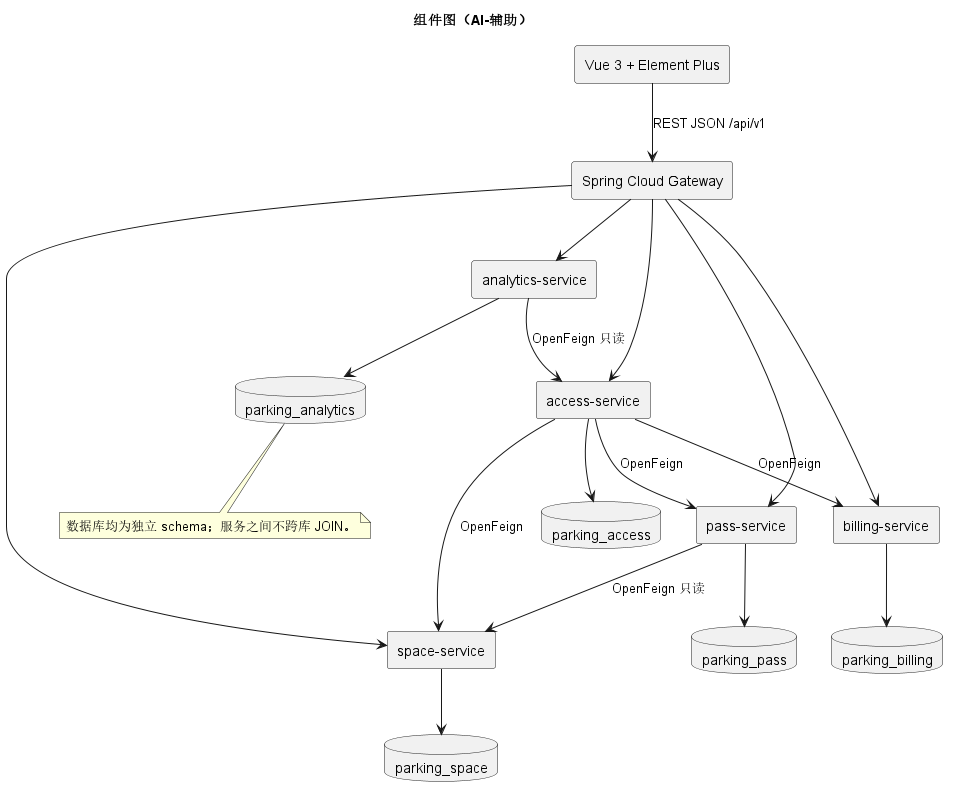
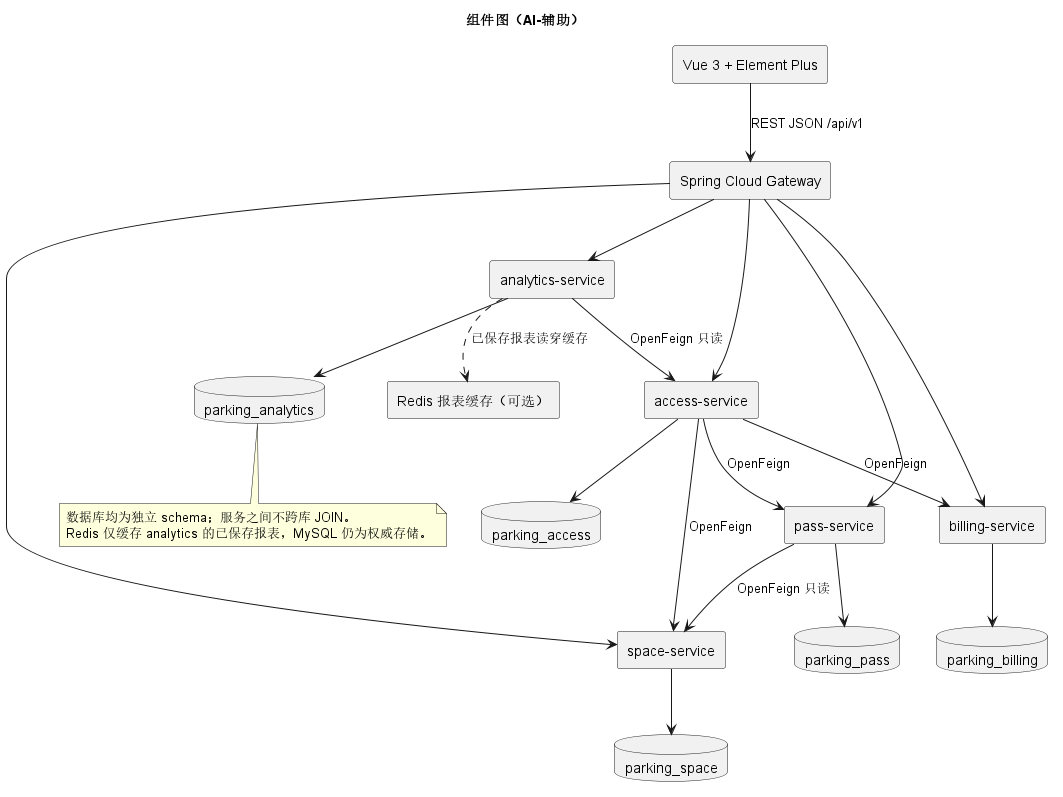
feat(analytics): cache saved traffic reports in optional Redis

diff --git a/analytics-service/src/main/java/cn/jsuhao/parking/analytics/SavedReportCache.java b/analytics-service/src/main/java/cn/jsuhao/parking/analytics/SavedReportCache.java
@@ -1,0 +1,48 @@
+package cn.jsuhao.parking.analytics;
+
+import com.fasterxml.jackson.core.JsonProcessingException;
+import com.fasterxml.jackson.databind.DeserializationFeature;
+import com.fasterxml.jackson.databind.ObjectMapper;
+import com.fasterxml.jackson.databind.SerializationFeature;
+import java.time.Duration;
+import org.slf4j.Logger;
+import org.slf4j.LoggerFactory;
+import org.springframework.beans.factory.annotation.Value;
+import org.springframework.data.redis.core.StringRedisTemplate;
+import org.springframework.stereotype.Component;
+
+@Component
+class SavedReportCache {
+    private static final Logger log = LoggerFactory.getLogger(SavedReportCache.class);
+    private static final String PREFIX = "parking:analytics:report:v1:";
+
+    private final StringRedisTemplate redis;
+    private final ObjectMapper json = new ObjectMapper().findAndRegisterModules()
+            .disable(SerializationFeature.WRITE_DATES_AS_TIMESTAMPS)
+            .disable(DeserializationFeature.ADJUST_DATES_TO_CONTEXT_TIME_ZONE);
+    private final Duration ttl;
+
+    SavedReportCache(StringRedisTemplate redis, @Value("${parking.analytics.redis.ttl}") Duration ttl) {
+        if (ttl.isZero() || ttl.isNegative()) throw new IllegalArgumentException("Redis cache TTL must be positive");
+        this.redis = redis;
+        this.ttl = ttl;
+    }
+
+    TrafficReport find(String id) {
+        try {
+            String value = redis.opsForValue().get(PREFIX + id);
+            return value == null ? null : json.readValue(value, TrafficReport.class);
+        } catch (RuntimeException | JsonProcessingException error) {
+            log.warn("Redis report cache read skipped: {}", error.toString());
+            return null;
+        }
+    }
+
+    void put(TrafficReport report) {
+        try {
+            redis.opsForValue().set(PREFIX + report.reportId(), json.writeValueAsString(report), ttl);
+        } catch (RuntimeException | JsonProcessingException error) {
+            log.warn("Redis report cache write skipped: {}", error.toString());
+        }
+    }
+}

diff --git a/analytics-service/src/test/java/cn/jsuhao/parking/analytics/SavedReportCacheTest.java b/analytics-service/src/test/java/cn/jsuhao/parking/analytics/SavedReportCacheTest.java
@@ -1,0 +1,42 @@
+package cn.jsuhao.parking.analytics;
+
+import static org.junit.jupiter.api.Assertions.assertEquals;
+import static org.junit.jupiter.api.Assertions.assertNull;
+import static org.mockito.ArgumentMatchers.eq;
+import static org.mockito.Mockito.mock;
+import static org.mockito.Mockito.verify;
+import static org.mockito.Mockito.when;
+
+import java.time.Duration;
+import java.time.OffsetDateTime;
+import java.util.List;
+import org.junit.jupiter.api.Test;
+import org.mockito.ArgumentCaptor;
+import org.springframework.data.redis.RedisConnectionFailureException;
+import org.springframework.data.redis.core.StringRedisTemplate;
+import org.springframework.data.redis.core.ValueOperations;
+
+class SavedReportCacheTest {
+    @Test
+    @SuppressWarnings("unchecked")
+    void preservesReportSnapshotAndTreatsRedisFailureAsCacheMiss() {
+        StringRedisTemplate redis = mock(StringRedisTemplate.class);
+        ValueOperations<String, String> values = mock(ValueOperations.class);
+        when(redis.opsForValue()).thenReturn(values);
+        SavedReportCache cache = new SavedReportCache(redis, Duration.ofMinutes(5));
+        OffsetDateTime start = OffsetDateTime.parse("2026-10-01T08:00:00+08:00");
+        TrafficBucket bucket = new TrafficBucket(start, 2);
+        TrafficReport report = new TrafficReport("report-1", start, start.plusHours(1), "HOUR",
+                List.of(bucket), bucket, 2);
+
+        cache.put(report);
+        ArgumentCaptor<String> payload = ArgumentCaptor.forClass(String.class);
+        String key = "parking:analytics:report:v1:report-1";
+        verify(values).set(eq(key), payload.capture(), eq(Duration.ofMinutes(5)));
+        when(values.get(key)).thenReturn(payload.getValue());
+        assertEquals(report, cache.find("report-1"));
+
+        when(values.get(key)).thenThrow(new RedisConnectionFailureException("offline"));
+        assertNull(cache.find("report-1"));
+    }
+}

diff --git a/analytics-service/src/test/java/cn/jsuhao/parking/analytics/TrafficServiceTest.java b/analytics-service/src/test/java/cn/jsuhao/parking/analytics/TrafficServiceTest.java
@@ -4,6 +4,8 @@ import static org.junit.jupiter.api.Assertions.assertEquals;
 import static org.junit.jupiter.api.Assertions.assertNull;
 import static org.junit.jupiter.api.Assertions.assertThrows;
 import static org.mockito.ArgumentMatchers.anyString;
+import static org.mockito.ArgumentMatchers.argThat;
+import static org.mockito.Mockito.verify;
 import static org.mockito.Mockito.when;
 
 import java.time.OffsetDateTime;
@@ -25,6 +27,7 @@ class TrafficServiceTest {
     @Autowired TrafficService service;
     @Autowired JdbcTemplate jdbc;
     @MockitoBean AccessTrafficClient access;
+    @MockitoBean SavedReportCache cache;
 
     @Test
     void reportCountsEntriesAndSavedSnapshotMatches() {
@@ -48,5 +51,15 @@ class TrafficServiceTest {
         assertEquals(2, report.peakBucket().count());
         assertEquals(2, report.buckets().size());
         assertEquals(report.buckets(), service.saved(report.reportId()).buckets());
+        verify(cache).put(argThat(saved -> report.reportId().equals(saved.reportId())));
+    }
+
+    @Test
+    void savedReportCacheHitDoesNotRequireMysqlRow() {
+        var from = OffsetDateTime.parse("2026-10-01T08:00:00+08:00");
+        var cached = new TrafficReport("cached-only", from, from.plusHours(1), "HOUR",
+                List.of(new TrafficBucket(from, 2)), new TrafficBucket(from, 2), 2);
+        when(cache.find("cached-only")).thenReturn(cached);
+        assertEquals(cached, service.saved("cached-only"));
     }
 }

diff --git a/analytics-service/src/main/java/cn/jsuhao/parking/analytics/TrafficController.java b/analytics-service/src/main/java/cn/jsuhao/parking/analytics/TrafficController.java
@@ -69,10 +69,12 @@ class TrafficService {
     private static final ZoneId SHANGHAI = ZoneId.of("Asia/Shanghai");
     private final AccessTrafficClient access;
     private final JdbcTemplate jdbc;
+    private final SavedReportCache cache;
 
-    TrafficService(AccessTrafficClient access, JdbcTemplate jdbc) {
+    TrafficService(AccessTrafficClient access, JdbcTemplate jdbc, SavedReportCache cache) {
         this.access = access;
         this.jdbc = jdbc;
+        this.cache = cache;
     }
 
     @Transactional
@@ -133,6 +135,8 @@ class TrafficService {
     }
 
     TrafficReport saved(String id) {
+        TrafficReport cached = cache.find(id);
+        if (cached != null) return cached;
         List<TrafficReport> reports = jdbc.query("SELECT * FROM traffic_report WHERE id=?",
                 (rs, row) -> {
                     OffsetDateTime from = rs.getObject("range_start", LocalDateTime.class)
@@ -153,7 +157,9 @@ class TrafficService {
                 }, id);
         if (reports.isEmpty())
             throw new TrafficFailure("NOT_FOUND", HttpStatus.NOT_FOUND, "报表不存在");
-        return reports.getFirst();
+        TrafficReport report = reports.getFirst();
+        cache.put(report);
+        return report;
     }
 
     private static LocalDateTime utc(OffsetDateTime value) {

diff --git a/docs/report-outline.md b/docs/report-outline.md
@@ -16,7 +16,7 @@
 | 模板要求 | 现状 | 证据位置 |
 |---|---|---|
 | UML 图 ≥12 幅 | **18 份源文件、22 张 PNG**（15 号源文件按五服务分别渲染） | `models/*.puml`、`models/rendered/` |
-| 测试用例 ≥10 条 | **16 条自动测试** + 6 组真实 MySQL 并发/故障注入 | `*/src/test/`、`docs/mysql-fault-tests.md` |
+| 测试用例 ≥10 条 | **18 条自动测试** + 6 组真实 MySQL 并发/故障注入 | `*/src/test/`、`docs/mysql-fault-tests.md` |
 | 界面截图 ≥8 张（含标题栏） | ❌ **待本人采集** | agent 的 QA 实拍不能替代 |
 | 8～10 分钟带字幕录屏（含跨服务） | ❌ **待本人录制** | — |
 | 建模工程文件可现场打开 | ✓ PlantUML 源码即工程文件 | `models/` |
@@ -38,7 +38,7 @@
 | 1.4 核心用例规约 | ✓ | **表1-3** 按模板格式，选 UC-02 入场 / UC-05 预约 / UC-03+04 出场结算。现有素材：`docs/use-cases.md`。**步骤编号必须与第二章 SSD、第四章设计顺序图一一对应** |
 | 1.5 非功能需求 | ✎ | 模板指定四方面：界面友好、健壮、可扩展（微服务视角）、可维护。要写**可检验指标**，且第六章 6.4 需逐条判定达标/未达标，两处必须能对上 |
 | 1.6 开发过程与迭代计划 | ✎ | 需新建**迭代计划表**（迭代｜时间｜目标｜产出物），把 6 周映射为「细化—构建迭代1—构建迭代2—移交」。真实时间线可从 `git log --date=short` 取：9/25 骨架 → 9/30 业务实现+模型+前端 → 10/07 加固 |
-| 1.7 运行环境 | ✓ | 硬软件环境表。现成数据：Java 21（Amazon Corretto）、Spring Boot 4.0.6、Spring Cloud 2025.1.1、Spring Cloud Alibaba 2025.1.0.0、MySQL 8.4、Nacos 3.1.1、Vue 3、Vite 6、Element Plus 2、PlantUML 1.2024.3。见 `README.md` §技术版本 |
+| 1.7 运行环境 | ✓ | 硬软件环境表。现成数据：Java 21（Amazon Corretto）、Spring Boot 4.0.6、Spring Cloud 2025.1.1、Spring Cloud Alibaba 2025.1.0.0、MySQL 8.4、Nacos 3.1.1、Redis 3.2.100（仅报表缓存）、Vue 3、Vite 6、Element Plus 2、PlantUML 1.2024.3。见 `README.md` §技术版本 |
 
 ### 第二章　分析建模
 
@@ -56,8 +56,8 @@
 | 3.2 逻辑视图：微服务划分 | ✎ | 需新建**表3-1**（服务｜职责｜独立 schema｜端口）。现成数据：`README.md` §模块与所有权、`AGENTS.md` §4 |
 | 3.3 开发视图：工程结构与接口 | ✓ | 多模块工程结构树 + **表3-2 服务间接口清单**。接口清单现成：`docs/api-contract.md`（含 DTO、调用方、同步/异步）。需补 DTO 与实体隔离原则的说明段 |
 | 3.4 进程视图：服务交互 | ✓ | **图3-2** = `models/17-process-sequence.puml`，以服务为生命线，展示出场、出账失败后复用意图、支付及释放重试。`06/08/10` 是第 4 章的设计级顺序图。正文仍需说明幂等键+本地事务+补偿/重试的一致性策略 |
-| 3.5 物理视图：部署图 | ✓ | **图3-3** = `models/13-deployment.puml`。图中本机六个 Java 进程、MySQL 五库、Nacos 注册发现与可选配置中心均有实测；Compose 和 Sentinel 尚未部署。模板要求与实际启动方式一致，正文需说明固定地址模式与 Nacos 模式 |
-| 3.6 组件图 | ✓ | **图3-4** = `models/12-components.puml`，以提供/依赖接口表达服务组装 |
+| 3.5 物理视图：部署图 | ✓ | **图3-3** = `models/13-deployment.puml`。图中本机六个 Java 进程、MySQL 五库、Nacos 注册发现与可选配置中心及 Redis 报表缓存均有各自实测；Compose 和 Sentinel 尚未部署。模板要求与实际启动方式一致，正文需说明固定地址模式与 Nacos 模式 |
+| 3.6 组件图 | ✓ | **图3-4** = `models/12-components.puml`，以提供/依赖接口表达服务组装；Redis 只连接 analytics 的已保存报表查询 |
 | 3.7 数据库设计 | ✓ | **图3-5 起** = `models/16-service-er.puml`。需补关键表结构表，以及**禁止跨库 JOIN 下的数据冗余设计说明**（如 access 冗余车牌、billing 快照权益）及其理由 |
 
 ### 第四章　详细设计
@@ -86,7 +86,7 @@
 | 节 | 状态 | 要点与证据 |
 |---|---|---|
 | 6.1 测试方案与环境 | ✓ | 功能+边界+服务间联调，说明模拟数据规模。素材：`docs/code-audit.md`、`docs/mysql-fault-tests.md` |
-| 6.2 测试用例表 | ✓ | **表6-1**，≥10 条。已有 16 条自动测试（H2）+ 真实 MySQL 并发与停机注入。模板**强制要求含跨服务场景与异常用例**——「被调服务停止时调用方容错」已在 `mysql-fault-tests.md` 有真实证据 |
+| 6.2 测试用例表 | ✓ | **表6-1**，≥10 条。已有 18 条自动测试（H2 与 Redis 缓存单测）+ 真实 MySQL 并发与停机注入；Redis 报表缓存另有本机真实 Redis/故障注入记录，见 `docs/agent-handoff.md`。模板**强制要求含跨服务场景与异常用例**——「被调服务停止时调用方容错」已在 `mysql-fault-tests.md` 有真实证据 |
 | 6.3 缺陷记录与修复闭环 | ✓ **亮点** | 模板要求「发现｜严重度｜修复情况」。本项目有**三个真实缺陷**可写：① billing 并发支付 7/8 返回 500（REPEATABLE READ 旧快照，`FOR UPDATE` 修复，H2 测不出）；② access 故障时状态语义错误（补 `@Transactional` 原子转 `EXIT_PENDING_PAYMENT`）；③ 前端残留 `reservationId`。**这一节写实了很有分量** |
 | 6.4 测试结论 | ✎ | 通过率 + **对照 1.5 非功能需求逐条判定「达标/未达标」**（须与 1.5 呼应）。注意如实写明未覆盖：跨机多实例、网络分区、真实支付网关 |
 

diff --git a/docs/agent-handoff.md b/docs/agent-handoff.md
@@ -1,8 +1,15 @@
-# Agent 交接记录（2026-10-06，当前可接手）
+# Agent 交接记录（2026-10-08，当前可接手）
 
 > 本文件用于中途接手。先读根目录 `AGENTS.md`、`docs/decisions.md`、`docs/api-contract.md` 和两份课程原件。业务语义与接口由这些文件约束；本记录只说明当前工作状态。请勿把未验证事项写成已完成。
 
-## 2026-10-07：UML 规范修正与进程视图（最新）
+## 2026-10-08：Redis 已保存报表缓存（最新）
+
+- **范围与边界**：UC-10 的 `analytics-service` 增加 `SavedReportCache`，仅对 `GET /api/v1/analytics/traffic-reports/{id}` 做 Redis 读穿缓存；`traffic-preview` 不缓存。`traffic_report` / `traffic_bucket` 的 MySQL 仍为权威存储，缓存写入发生在成功读库后；Redis 出错只记日志并回源，不改变 HTTP 契约、状态或表。键前缀 `parking:analytics:report:v1:`、TTL 默认 1 小时，地址/超时/密码均从环境变量配置，仓库不含真实密码。新增 `spring-boot-starter-data-redis` 提供 Lettuce 与 `StringRedisTemplate`；新增 BOM 管理的 `jackson-datatype-jsr310` 保证 `OffsetDateTime` JSON 往返保持偏移量。模型同步到图 12、13、15（analytics 那张）。
+- **真实 Redis 与 MySQL 证据**：本机 Redis `127.0.0.1:6379`、版本 3.2.100，使用环境变量密码认证后 `PING=PONG`。隔离端口 19085 的新版 analytics 查询已有报表 `f3a483da-1e1c-471e-84b1-236292c0d099` 两次，均返回 `OK`、`totalEntries=10`；Redis `EXISTS parking:analytics:report:v1:<id>` 返回 1，`TTL` 返回 3582 秒。隔离端口 19086 指向不可用 Redis 端口 6399，`/actuator/health=UP`，同报表仍返回 `OK`/10，日志有读写缓存失败并回源的记录。隔离端口 19087 将 MySQL 指向不可用 3307 且关闭 SQL 初始化，已缓存报表仍返回 `OK`/10；未缓存 ID 返回 HTTP 503、`DEPENDENCY_UNAVAILABLE`，证明没有假成功。三只临时 Java 进程测试后已停止；原始日志在忽略目录 `target/local-runtime/analytics-redis*.log`、`analytics-mysql-down-cache-hit.*.log`。
+- **测试与运行**：`./mvnw.cmd -pl analytics-service -am test` 为 3 条、0 失败；`./mvnw.cmd test` 全模块 18 条、0 失败，输出 `target/local-runtime/redis-analytics-tests.log` 与 `redis-full-mvn-test.log`。`SavedReportCacheTest` 覆盖带时区的 JSON 往返和 Redis 故障视为未命中；`TrafficServiceTest` 覆盖命中缓存后无需 MySQL 行。启动 analytics 前设置 `REDIS_PASSWORD`，必要时设置 `REDIS_HOST`、`REDIS_PORT`、`ANALYTICS_REDIS_TTL`，其余默认见 application.yml。本轮未推送远端。
+- **给 Compose agent**：B1 仍未在本仓库验收。若在虚拟机编排 Redis，应把 analytics 的 `REDIS_HOST` 指向 Compose 服务名，并从未提交的 `.env` 注入 `REDIS_PASSWORD`；不要把本机 `127.0.0.1` 当成容器内 Redis 地址。此处仅是对接说明，不能据此宣称 Compose 已通过。
+
+## 2026-10-07：UML 规范修正与进程视图
 
 - **A1/A2/A3**：`models/15-design-classes.puml` 按各服务 Java 源码补真实字段类型、方法参数/返回类型和可见性（包内访问用 `~`），引用关系标多重性；`ParkingPricing.BenefitPolicy` 标为私有嵌套接口，真实 `NONE` 匿名类用 `..|>` 实现关系表示，两个 lambda 只在 note 中说明，没有虚构具名策略类；补 `analytics-service` 的 Controller、Service、Feign 客户端、records 和异常类，注明只读调用 access、自有 JDBC 只写 analytics 库。覆盖 UC-03/04/10 等；没有改代码、接口、状态、金额单位或数据库表。A1/A2/A3 分别提交 `99421df`、`d8647bf`、`d4db3d0`，最终匿名实现连线另见本轮渲染同步提交。
 - **A4**：`models/17-process-sequence.puml` 新增报告图 3-2，命线为客户端、网关及四个参与出场的业务服务；依次表现权益核验、充电费用冻结、`exit_intent` 与 `EXIT_PENDING_PAYMENT` 持久化、出账、支付、`PAID_PENDING_RELEASE`、释放与 `CLOSED`。billing 停机分支返回 503 并保留原意图，同键重试读取旧快照；释放失败分支跳过已付账单的再次支付。与代码 `AccessService.requestExit/completeExit` 和 `AccessRepository.reserveExit` 核对；未画 Sentinel 分支，因为 B2 已回退。`docs/report-outline.md` 的图号与缺口清单已更新，提交 `9cc6d26`。

diff --git a/README.md b/README.md
@@ -24,7 +24,7 @@
 
 ## 技术版本
 
-Java 21、Spring Boot 4.0.6、Spring Cloud 2025.1.1、Spring Cloud Alibaba 2025.1.0.0、MySQL 8.x、Vue 3、Vite 6、Element Plus 2。Maven 版本由项目包装器确定；具体依赖以根 pom.xml 为准。版本组合参考 [Spring Cloud Alibaba 官方对应表](https://sca.aliyun.com/en/docs/2025.x/overview/version-explain/)；本机已用 Nacos 3.1.1 做服务发现联调，证据和边界见 [交接记录](docs/agent-handoff.md)。
+Java 21、Spring Boot 4.0.6、Spring Cloud 2025.1.1、Spring Cloud Alibaba 2025.1.0.0、MySQL 8.x、Vue 3、Vite 6、Element Plus 2；本机 Redis 3.2.100 仅用于已保存报表缓存。Maven 版本由项目包装器确定；具体依赖以根 pom.xml 为准。版本组合参考 [Spring Cloud Alibaba 官方对应表](https://sca.aliyun.com/en/docs/2025.x/overview/version-explain/)；本机已用 Nacos 3.1.1 做服务发现联调，证据和边界见 [交接记录](docs/agent-handoff.md)。
 
 ## 本地 MySQL 启动
 
@@ -44,13 +44,19 @@ Java 21、Spring Boot 4.0.6、Spring Cloud 2025.1.1、Spring Cloud Alibaba 2025.
 
 在项目根目录运行 `./scripts/verify-nacos-pricing-refresh.ps1` 可复核费率热更新；脚本要求 Nacos 中已经发布 v1 演示基线，测试结束会恢复原配置。它只创建新的模拟账单，不修改旧账单。
 
+## Redis 报表缓存（UC-10）
+
+`analytics-service` 对 `GET /api/v1/analytics/traffic-reports/{id}` 使用 Redis 读穿缓存，默认地址 `127.0.0.1:6379`，键前缀 `parking:analytics:report:v1:`，默认 TTL 为 1 小时。首次查看从 `parking_analytics` 读取并写入缓存；后续命中返回同一份不可变报表。实时 `traffic-preview` 不缓存。Redis 不可用时会回源 MySQL；若两者均不可用，仍按既有契约返回 `503 DEPENDENCY_UNAVAILABLE`。Redis 不参与车位、账单、支付或出场状态判断。
+
+启动 analytics 前在本机环境变量中设置 `REDIS_PASSWORD`，不要将真实密码写入仓库。可按需设置 `REDIS_HOST`、`REDIS_PORT`、`REDIS_CONNECT_TIMEOUT`、`REDIS_TIMEOUT` 和 `ANALYTICS_REDIS_TTL`；默认值见 [analytics 配置](analytics-service/src/main/resources/application.yml)。Redis 是可选缓存，其健康项不决定服务整体健康状态，故障会在日志记录。`analytics-service` 新增 BOM 管理的 Redis starter 与 Jackson Java Time 模块：前者提供连接与模板，后者保持报表 `OffsetDateTime` 的时区语义。
+
 本机没有 Docker/WSL，未验证 Compose 部署；Sentinel 曾在真实 MySQL 并发预约回归中引发 Feign 解码错误，已回退，当前不宣称启用熔断。
 
 ## 验证与演示
 
 - `.\mvnw.cmd clean package` 运行所有现有测试；测试使用 H2 的 MySQL 兼容模式检查服务各自的数据约束和主要分支，不替代 MySQL 联调。
 - `npm run build` 检查前端。
-- 16 条现有后端测试均通过；真实服务已启动时，可用 PowerShell 7 执行 `./scripts/smoke-gateway.ps1` 检查充电→冻结费用→出账→支付→释放→发票。脚本保留演示记录；网关地址可用 `-GatewayUrl` 覆盖。
+- 18 条后端测试均通过（原有 16 条 + Redis 缓存 2 条）；真实服务已启动时，可用 PowerShell 7 执行 `./scripts/smoke-gateway.ps1` 检查充电→冻结费用→出账→支付→释放→发票。脚本保留演示记录；网关地址可用 `-GatewayUrl` 覆盖。
 - 已验证的真实 MySQL 网关链路：普通停车 08:00–10:00 为 1000 分；预约九折减预付 500 分后应付 400 分；月卡停车费八折后余额自动扣 800 分；2 kWh 充电费 300 分并入账单；异常费用及日报表可复核。详见 [联调记录](docs/code-audit.md)。
 - 真实 MySQL 并发与断线恢复：`scripts/verify-mysql-concurrency.ps1` 覆盖并发占位、预约和支付；billing/space 下线与月卡支付超时的人工注入步骤、断言和实测结果见 [故障注入记录](docs/mysql-fault-tests.md)。
 - [模型源文件](models/README.md)是 18 份可编辑 PlantUML 草案，22 张渲染图位于 `models/rendered/`；新增 17 号服务级出场进程顺序图，15 号源文件分别渲染五个服务的类图。报告里的图、代码、截图应持续同步。课程所需至少 8 张本人截图和带字幕录屏仍需完成。

diff --git a/docs/traceability.md b/docs/traceability.md
@@ -1,6 +1,6 @@
 # 需求—模型—代码—测试映射（【AI-辅助】）
 
-更新于 2026-10-07。下表“已验证”含自动测试、本机真实 MySQL 顺序联调、Nacos 服务发现及有记录的并发/断线注入；逐项证据见 [联调记录](code-audit.md)、[故障注入记录](mysql-fault-tests.md)和[交接记录](agent-handoff.md)。Nacos 控制台截图和课程要求的本人截图尚未完成。报告图号由姜苏豪排版时填写。
+更新于 2026-10-08。下表“已验证”含自动测试、本机真实 MySQL 顺序联调、Nacos 服务发现、Redis 报表缓存及有记录的并发/断线注入；逐项证据见 [联调记录](code-audit.md)、[故障注入记录](mysql-fault-tests.md)和[交接记录](agent-handoff.md)。Nacos 控制台截图和课程要求的本人截图尚未完成。报告图号由姜苏豪排版时填写。
 
 | UC | 需求结果 | 权威服务/接口 | 主要表 | 可编辑模型源 | 当前验证 |
 |---|---|---|---|---|---|
@@ -13,6 +13,6 @@
 | 07 | 在场车位反向查询 | access：GET /api/v1/access/locate | parking_session | 02、03、15、16 | MySQL 入场后可查；关闭后不可查有自动测试 |
 | 08 | 丢卡/超长停车特殊费 | access：exit-requests；billing：createBill | parking_session、bill | 03、07、08、15、16 | 定价测试覆盖丢卡与超长；MySQL 49 小时且丢卡完整出场通过 |
 | 09 | 充电会话与计费 | space：charging-sessions、settlement、charging-fees | charger、charging_session、charging_settlement | 02、08、11、14、15、16 | 4 条 space 测试含冻结/新增竞争；MySQL 活动充电拒绝出账、冻结后拒绝充电；2 kWh=300 分并入账单 |
-| 10 | 车流量与高峰报表 | analytics：traffic、traffic-preview | traffic_report、traffic_bucket | 11、12、13、15、16 | 统计/快照/只读不落库/31 天边界测试；浏览器真实柱图与报表通过 |
+| 10 | 车流量与高峰报表 | analytics：traffic、traffic-preview、traffic-reports/{id} | traffic_report、traffic_bucket；Redis 仅作已保存报表缓存 | 11、12、13、15、16 | 统计/快照/只读不落库/31 天边界测试；本机 Redis 命中及故障回源验证；浏览器真实柱图与报表通过 |
 
 图号对应 models/ 下文件名前缀。测试 XML 位于各模块 target/surefire-reports（构建产物，不提交）。运行截图必须由负责人在本人机器上实际打开系统采集。发现图、字段或数字不一致时，先核对权威服务与业务决策，再同步修订本表。

diff --git a/AGENTS.md b/AGENTS.md
@@ -1,6 +1,6 @@
 # 机场智慧停车与出行服务平台：项目统一契约
 
-> 版本：1.0（2026-09-25，实施基线）
+> 版本：1.1（2026-10-08，新增可选 Redis 报表缓存；业务契约沿用 2026-09-25 实施基线）
 > 负责人：软件工程 24201718 姜苏豪  
 > 课程：软件建模技术大作业，第 14 题  
 > 本文件约束本项目中工作的所有人和 AI agent。课程原件为 `大作业题目说明.pdf` 与 `软件建模技术大作业报告模板.docx`；如本文件与课程原件冲突，以课程原件为准，并先修订本文件。
@@ -101,7 +101,7 @@
 | `pass-service` | 未来预约时间窗、月卡、车辆绑定与权益核验 | 只读查询车位列表；预约冲突由本服务自己的数据库串行化判断 |
 | `analytics-service` | 车流量、高峰时段、报表 | 各服务提供的只读接口/业务事件 |
 
-基础设施：`gateway` 统一接入，Nacos 当前用于服务注册；服务间同步调用采用 OpenFeign。配置目前来自环境变量和本地配置，未接入 Nacos 配置中心前不得在报告宣称已使用。MySQL 每服务独立 schema，建议 `parking_space`、`parking_access`、`parking_billing`、`parking_pass`、`parking_analytics`。服务不得直接读写另一服务的表，也不得跨库 JOIN。`analytics-service` 调 access 只读接口取得数据，不能连接其他服务数据库。消息队列为选做，若未接入，报告与部署图不能画成已运行。
+基础设施：`gateway` 统一接入，Nacos 用于服务注册与可选配置中心（本地配置仍兜底）；服务间同步调用采用 OpenFeign。MySQL 每服务独立 schema，建议 `parking_space`、`parking_access`、`parking_billing`、`parking_pass`、`parking_analytics`。服务不得直接读写另一服务的表，也不得跨库 JOIN。`analytics-service` 调 access 只读接口取得数据，不能连接其他服务数据库。Redis 仅作为 analytics-service 已保存报表的可选只读缓存；MySQL 仍是报表权威存储，Redis 不可用时必须回源 MySQL，实时预览不缓存。Redis 不得保存车位占用、出场意图、账单或支付的权威状态。消息队列为选做，若未接入，报告与部署图不能画成已运行。
 
 **跨服务主流程**（报告与录屏至少覆盖一次）：
 

diff --git a/docs/api-contract.md b/docs/api-contract.md
@@ -75,6 +75,8 @@ BillView = {billId,parkingSessionId,status,parkingBaseCents,discountCents,prepai
 
 ## 服务依赖及开发范围
 
+2026-10-08 实现补充：`analytics-service` 的已保存报表查询可从 Redis 读取不可变快照，未命中或 Redis 不可用时回源本服务 MySQL；实时 `traffic-preview` 不缓存。HTTP 路径、DTO、状态和错误码不变，Redis 不承担权威存储。
+
 space 与 billing 不调用其他业务服务；pass 只读查询 space；access 调 space、pass、billing；analytics 只读调 access。网关只路由。第一条垂直链先完成无预约普通车位的入场、寻车、出账、模拟支付和释放，再接入其余功能；尚未实现的接口不能写成已完成。
 
 2026-09-30 部署补充：接口路径、DTO、状态及错误语义不变。服务发现模式下，六个 Java 进程均以 `NACOS_ENABLED=true` 注册到同一 Nacos 3.1.1；四个 `*_SERVICE_URL` 置空后，access、pass、analytics 的 Feign 调用按服务名解析，网关 `nacos` profile 的 `lb://` 路由也按服务名解析。pass-service 必须含 Spring Cloud LoadBalancer（版本由根 BOM 管理），否则空 URL 的 Feign 客户端在启动时失败。该模式与默认固定本地地址模式使用同一组 HTTP 契约。

diff --git a/models/README.md b/models/README.md
@@ -4,4 +4,6 @@
 
 2026-10-07 已用本机 PlantUML 1.2024.3 对全部 18 个 `.puml` 源文件执行 `-checkonly`，并从同一源文件生成 `rendered/` 下的 22 张 PNG（15 号一份源产生五张图）；实际打开 15 号的五张类图和 17 号进程图核对文字与连线。负责人仍需逐图审核业务语义，补报告图题、正文引用和“模型—代码—测试”解释；图中任何与代码或数据库不一致的文字先修订源文件，再更新报告。13 号部署图画的是已验证的本机 Java 进程、Nacos 注册发现及可选配置中心；Docker Compose 与 Sentinel 未部署，图中也未启用。
 
+2026-10-08 已将 analytics 的可选 Redis 报表缓存同步到组件图 12、部署图 13 和设计类图 15，并重新检查语法、渲染及打开对应 PNG；MySQL 仍是报表权威存储。
+
 在项目根目录可用 `java -jar plantuml.jar -checkonly "models/*.puml"` 检查语法，再用 `java -jar plantuml.jar -charset UTF-8 -tpng -o rendered "models/*.puml"` 重建图片。`plantuml.jar` 可使用本机 VS Code PlantUML 扩展附带的版本；图片是源文件的派生产物。
